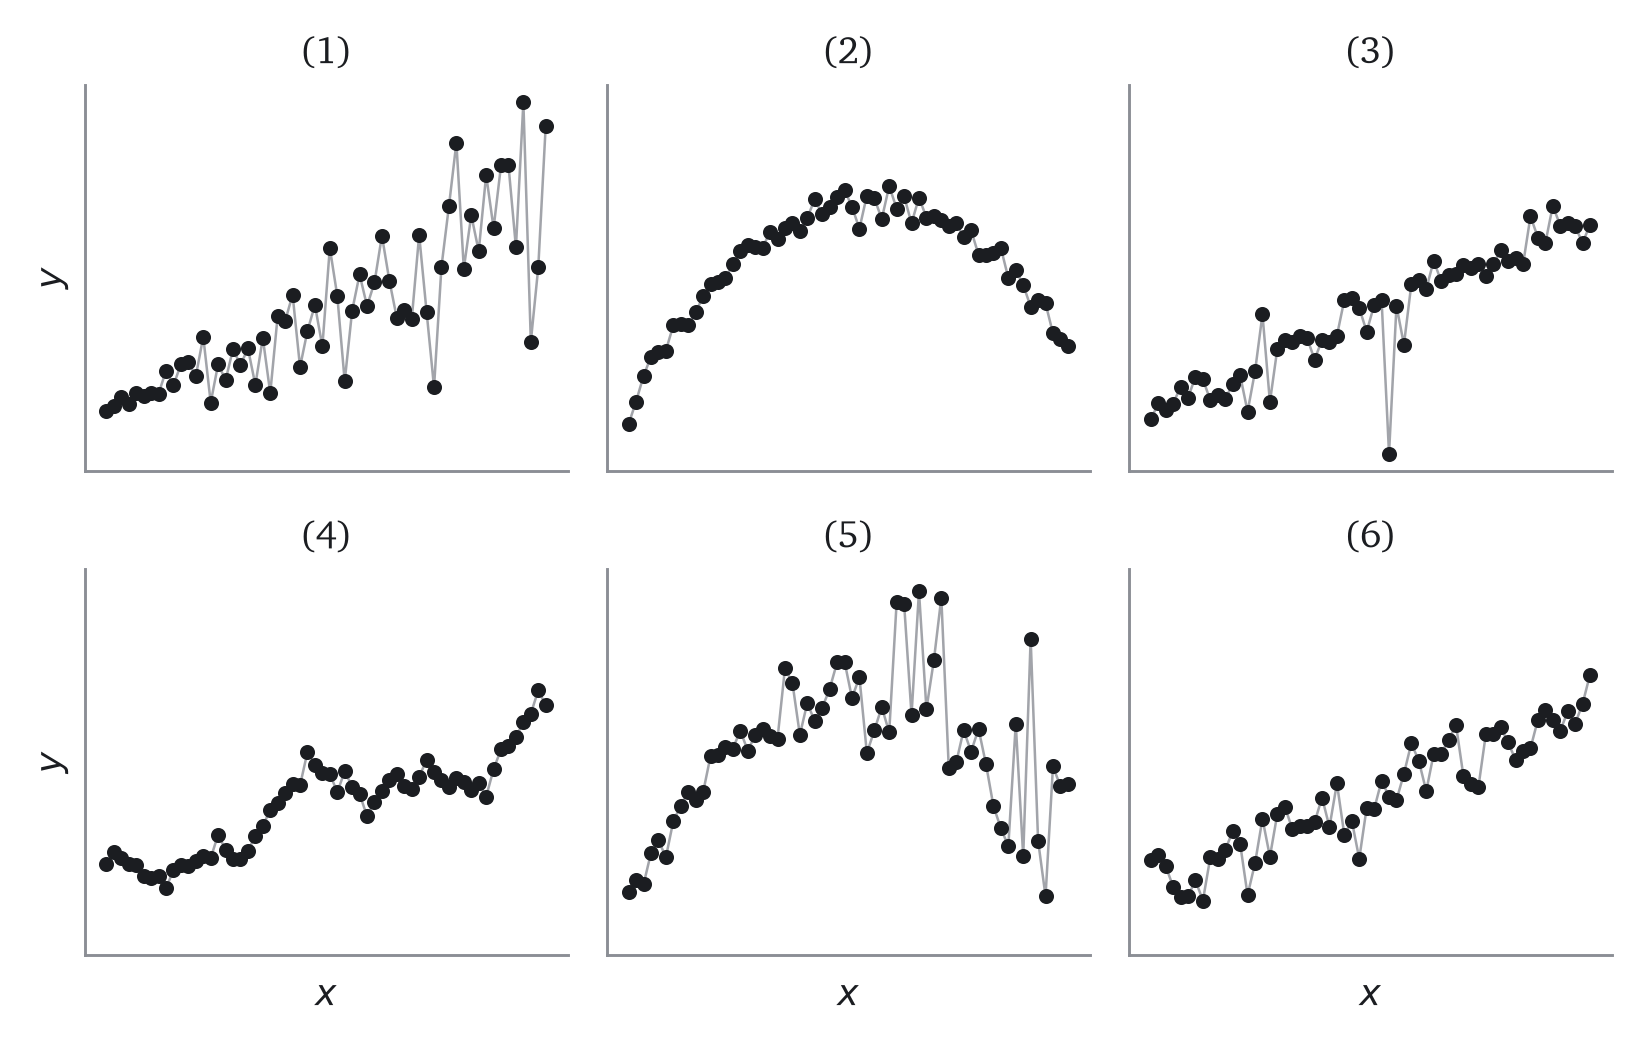
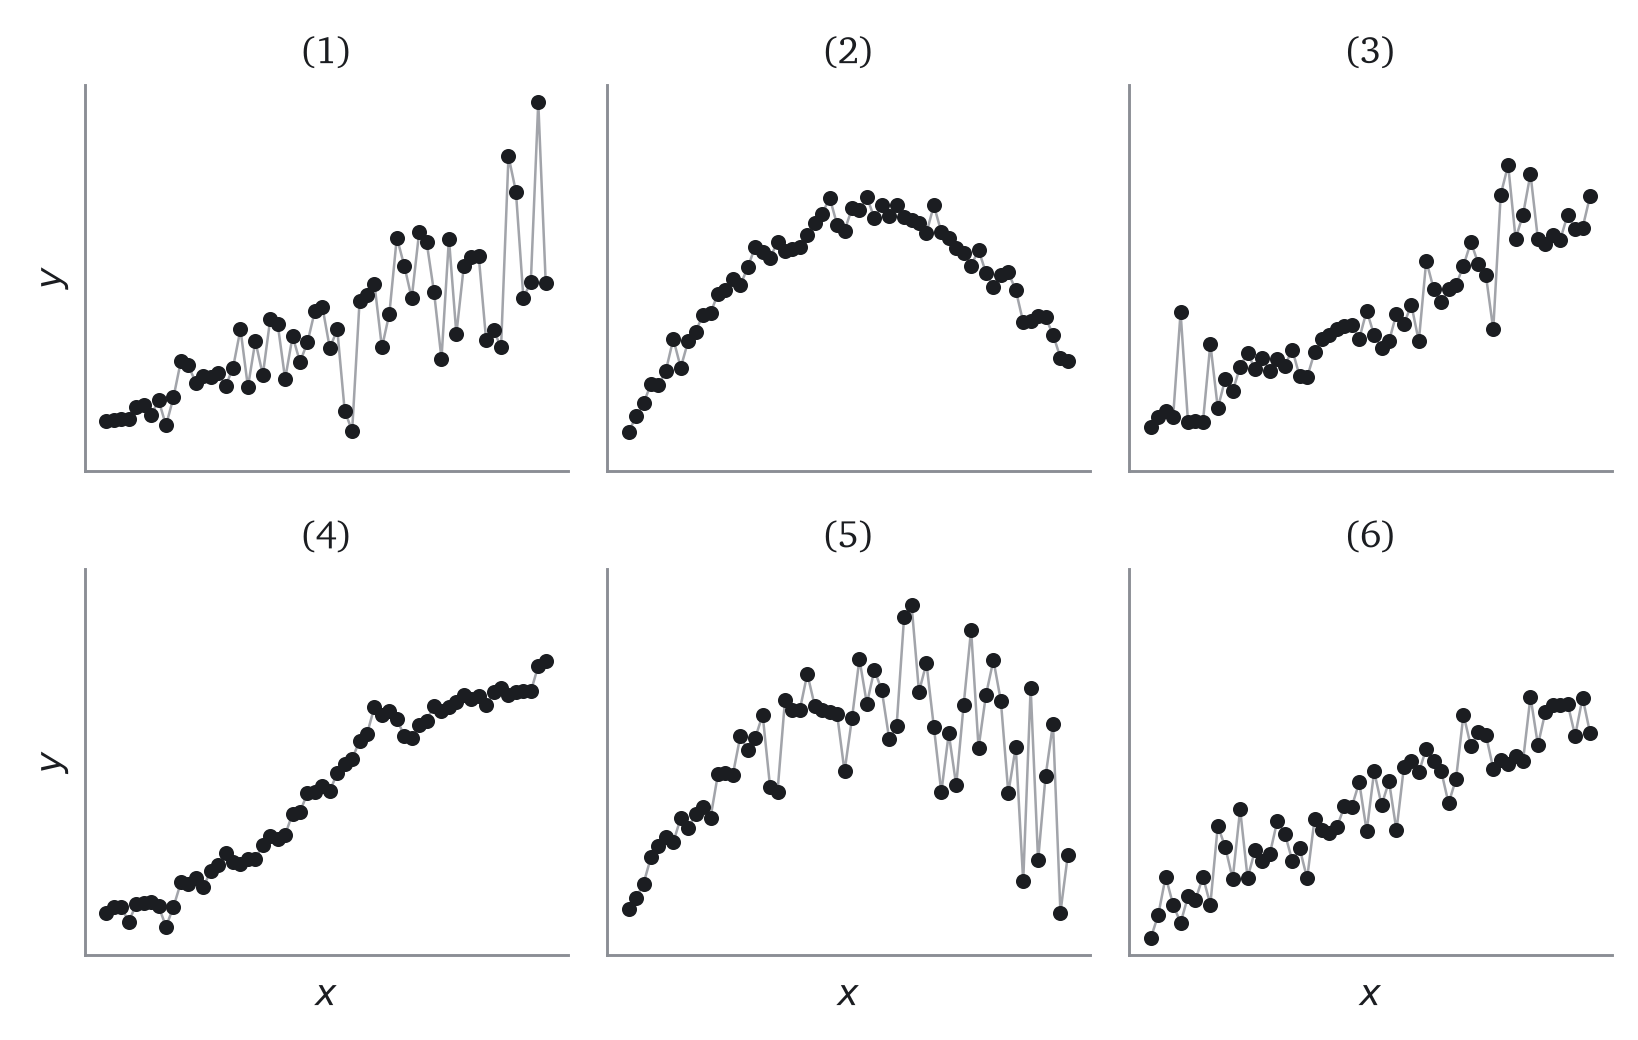
Cierra la hoja 1: código en las soluciones y figura más robusta
Las tres soluciones de los ejercicios que piden código daban los números pero
no el código. Ahora lo llevan, y es código ejecutado: el de @exr-h1-logaritmos
reproduce los datos del capítulo y saca los tres productos y las tres sumas de
logaritmos; el de @exr-h1-heterocedastico reescala una sola extracción estándar
de dos maneras, para que los dos paneles se puedan comparar punto a punto; y el
de @exr-h1-simulacion monta el experimento entero, con la búsqueda por rejilla
del capítulo y el interpolador cúbico, y devuelve las medianas de las dos
distribuciones de error de test. El solucionario pasa de 3 bloques de código a
14, y de 20 páginas a 25.

El panel (3) de la figura, el de colas pesadas, dependía de un solo punto: el
segundo valor más extremo era menor que el mayor del panel limpio, así que el
rasgo que se pedía identificar no estaba en el dibujo. Con p = 0.15 y escala 5
en lugar de 0.12 y 9 salen catorce puntos de la escala grande y los cuatro
mayores se descuelgan a 10.8, 10.4, 8.3 y 7.5, frente al 6.5 del panel limpio.
De paso, el panel (4) pasa a tener la misma desviación típica que el (6), 2.4,
de modo que lo único que los distingue es la dependencia; y con la semilla nueva
el panel limpio deja de arrastrar la autocorrelación espuria de 0.27 que tenía.

@exr-h1-densidad ya no solapa con @exr-h1-densidad-uno: su apartado a evalúa la
densidad en z = 2 en lugar de en el centro, que era la misma cuenta que hacía el
otro ejercicio.
[…]

diff --git a/docs/capitulos/01-senal-ruido.html b/docs/capitulos/01-senal-ruido.html
@@ -326,7 +326,7 @@ window.Quarto = {
 <p>El principal problema del aprendizaje supervisado es que la relación entre <span class="math inline">\(\mathbf{x}\)</span> e <span class="math inline">\(y\)</span> de los datos observados no suele ser exacta. Esta relación, puede entenderse como la composición de una relación estable “subyacente” y una variación aleatoria que oculta parcialmente esa relación. Esta variación se conoce como <strong>ruido</strong> y puede tener distintas procedencias: errores de medición, factores no observados, cambios en el entorno, etc. La relación estable se denomina <strong>señal</strong>. El objetivo del aprendizaje supervisado es <strong>aprender la señal sin memorizar el ruido</strong>.</p>
 <p>Para entenderlo mejor, construyamos un conjunto de datos sencillo que contenga ambos componentes. En este conjunto, el vector de características tendrá una sola dimensión.</p>
 <div class="codigo-clave">
-<div id="4a83495a" class="cell" data-execution_count="2">
+<div id="38813566" class="cell" data-execution_count="2">
 <div class="code-copy-outer-scaffold"><div class="sourceCode cell-code" id="cb1"><pre class="sourceCode python code-with-copy"><code class="sourceCode python"><span id="cb1-1"><a href="#cb1-1" aria-hidden="true" tabindex="-1"></a><span class="im">import</span> torch</span>
 <span id="cb1-2"><a href="#cb1-2" aria-hidden="true" tabindex="-1"></a></span>
 <span id="cb1-3"><a href="#cb1-3" aria-hidden="true" tabindex="-1"></a>torch.manual_seed(<span class="dv">87</span>)</span>
@@ -360,7 +360,7 @@ window.Quarto = {
 <div id="fig-senal-ruido" class="quarto-float quarto-figure quarto-figure-center anchored page-columns page-full">
 <figure class="quarto-float quarto-float-fig figure page-columns page-full">
 <div aria-describedby="fig-senal-ruido-caption-0ceaefa1-69ba-4598-a22c-09a6ac19f8ca">
-<div id="3d1d991a" class="cell" data-execution_count="3">
+<div id="3c2f67ba" class="cell" data-execution_count="3">
 <div class="cell-output cell-output-display">
 <div>
 <figure class="figure">
@@ -397,8 +397,8 @@ y_i=f(x_i)+\varepsilon_i.
 </div>
 <!-- demostracion: problemas/hoja-01.qmd#exr-h1-lagrange -->
 <p>El resultado se demuestra construyendo el polinomio explícitamente, se deja planteado como ejercicio.</p>
-<p>El teorema anterior vale para cualesquiera <span class="math inline">\(y_i\)</span>, incluidos unos generados por ruido puro. Por tanto, siempre es posible encontrar una función <span class="math inline">\(g\)</span> para la cual <span class="math inline">\(g(x_i)=y_i\)</span> para todo <span class="math inline">\(i\)</span>. Decimos que para <span class="math inline">\(g\)</span> el <strong>error de entrenamiento es nulo</strong>.</p>
-<div id="6de30290" class="cell" data-execution_count="4">
+<p>El teorema anterior vale para cualesquiera <span class="math inline">\(y_i\)</span>, incluidos unos generados por ruido puro. Por tanto, siempre es posible encontrar una función <span class="math inline">\(P\)</span> para la cual <span class="math inline">\(P(x_i)=y_i\)</span> para todo <span class="math inline">\(i\)</span>. Decimos que para <span class="math inline">\(P\)</span> el <strong>error de entrenamiento es nulo</strong>.</p>
+<div id="81dcd601" class="cell" data-execution_count="4">
 <details class="code-fold">
 <summary>Código</summary>
 <div class="code-copy-outer-scaffold"><div class="sourceCode cell-code" id="cb3"><pre class="sourceCode python code-with-copy"><code class="sourceCode python"><span id="cb3-1"><a href="#cb3-1" aria-hidden="true" tabindex="-1"></a><span class="im">from</span> scipy <span class="im">import</span> interpolate</span>
@@ -421,7 +421,7 @@ y_i=f(x_i)+\varepsilon_i.
 <div id="fig-interpolacion" class="quarto-float quarto-figure quarto-figure-center anchored page-columns page-full">
 <figure class="quarto-float quarto-float-fig figure page-columns page-full">
 <div aria-describedby="fig-interpolacion-caption-0ceaefa1-69ba-4598-a22c-09a6ac19f8ca">
-<div id="fefca84c" class="cell" data-execution_count="5">
+<div id="f1305eff" class="cell" data-execution_count="5">
 <div class="cell-output cell-output-display">
 <div>
 <figure class="figure">
@@ -438,7 +438,7 @@ Figura&nbsp;1.2: Una función que interpola exactamente la muestra y, por tanto,
 </div>
 <p>El problema aquí es que, en general, si bien hemos ajustado perfectamente nuestros datos de entrenamiento, el modelo no ha aprendido la señal subyacente <span class="math inline">\(f\)</span>. Es decir, usualmente, <span class="math inline">\(g\neq f\)</span>. En nuestro caso, si generamos nuevas observaciones con la misma señal pero con un ruido distinto, veremos que la función interpoladora no predice bien los nuevos datos.</p>
 <div class="codigo-clave">
-<div id="181d9b2e" class="cell" data-execution_count="6">
+<div id="cf0fa38f" class="cell" data-execution_count="6">
 <div class="code-copy-outer-scaffold"><div class="sourceCode cell-code" id="cb5"><pre class="sourceCode python code-with-copy"><code class="sourceCode python"><span id="cb5-1"><a href="#cb5-1" aria-hidden="true" tabindex="-1"></a>x_denso <span class="op">=</span> torch.linspace(<span class="dv">0</span>, <span class="dv">10</span>, <span class="dv">100</span>)</span>
 <span id="cb5-2"><a href="#cb5-2" aria-hidden="true" tabindex="-1"></a>y_nueva <span class="op">=</span> <span class="dv">2</span> <span class="op">*</span> x_denso <span class="op">+</span> <span class="dv">1</span> <span class="op">+</span> <span class="dv">3</span> <span class="op">*</span> torch.randn(<span class="bu">len</span>(x_denso))</span></code></pre></div><button title="Copiar al portapapeles" class="code-copy-button"><i class="bi"></i></button></div>
 </div>
@@ -457,7 +457,7 @@ Figura&nbsp;1.2: Una función que interpola exactamente la muestra y, por tanto,
 <div id="fig-trampa" class="quarto-float quarto-figure quarto-figure-center anchored page-columns page-full">
 <figure class="quarto-float quarto-float-fig figure page-columns page-full">
 <div aria-describedby="fig-trampa-caption-0ceaefa1-69ba-4598-a22c-09a6ac19f8ca">
-<div id="f3242fb5" class="cell" data-execution_count="7">
+<div id="9339db94" class="cell" data-execution_count="7">
 <div class="cell-output cell-output-display">
 <div>
 <figure class="figure">
@@ -519,12 +519,13 @@ p(z;\mu,\sigma)
 <p><span class="theorem-title"><strong>Ejercicio 1.1 (Una densidad puede pasar de uno)</strong></span> &nbsp;</p>
 <ol type="a">
 <li>Evalúa <a href="#eq-densidad-normal" class="quarto-xref">Ecuación&nbsp;<span>1.2</span></a> en <span class="math inline">\(z=\mu\)</span> y calcula su valor para <span class="math inline">\(\sigma=2\)</span>, <span class="math inline">\(\sigma=1\)</span> y <span class="math inline">\(\sigma=0.2\)</span>.</li>
-<li>Encuentra a partir de qué valor de <span class="math inline">\(\sigma\)</span> la densidad evaluada en <span class="math inline">\(z=\mu\)</span> es mayor a 1. Explica en una frase por qué eso no contradice que la probabilidad esté entre cero y uno.</li>
+<li>Calcula a partir de qué valor de <span class="math inline">\(\sigma\)</span> la densidad evaluada en <span class="math inline">\(z=\mu\)</span> pasa de uno.</li>
+<li>Con <span class="math inline">\(\sigma=0.2\)</span> esa densidad vale <span class="math inline">\(1.995\)</span>, algo menos de 2. Di cuál de las dos cantidades <span class="math inline">\(p(z;\mu,\sigma)\)</span> y <span class="math inline">\(\mathbb{P}\!\left( a\leq\varepsilon\leq b \right)\)</span> tiene que estar entre cero y uno según <a href="#def-normal" class="quarto-xref">Definición&nbsp;<span>1.3</span></a>, y calcula el área del rectángulo de base <span class="math inline">\([\mu-0.2,\mu+0.2]\)</span> y altura 2 para acotar la probabilidad de ese intervalo y comprobar que no llega a uno.</li>
 </ol>
 </div>
 <p>La fórmula anterior se puede traducir directamente a código vectorizado.</p>
 <div class="codigo-clave">
-<div id="9c628f08" class="cell" data-execution_count="9">
+<div id="413f2178" class="cell" data-execution_count="9">
 <div class="code-copy-outer-scaffold"><div class="sourceCode cell-code" id="cb7"><pre class="sourceCode python code-with-copy"><code class="sourceCode python"><span id="cb7-1"><a href="#cb7-1" aria-hidden="true" tabindex="-1"></a><span class="kw">def</span> densidad_normal(z, media, desviacion):</span>
 <span id="cb7-2"><a href="#cb7-2" aria-hidden="true" tabindex="-1"></a>    constante <span class="op">=</span> desviacion <span class="op">*</span> (<span class="dv">2</span> <span class="op">*</span> torch.pi) <span class="op">**</span> <span class="fl">0.5</span></span>
 <span id="cb7-3"><a href="#cb7-3" aria-hidden="true" tabindex="-1"></a>    <span class="cf">return</span> torch.exp(<span class="op">-</span><span class="fl">0.5</span> <span class="op">*</span> ((z <span class="op">-</span> media) <span class="op">/</span> desviacion) <span class="op">**</span> <span class="dv">2</span>) <span class="op">/</span> constante</span>
@@ -557,7 +558,7 @@ p(z;\mu,\sigma)
 <div id="fig-densidades-normales" class="quarto-float quarto-figure quarto-figure-center anchored page-columns page-full">
 <figure class="quarto-float quarto-float-fig figure page-columns page-full">
 <div aria-describedby="fig-densidades-normales-caption-0ceaefa1-69ba-4598-a22c-09a6ac19f8ca">
-<div id="7d0acad9" class="cell" data-execution_count="10">
+<div id="56dc8381" class="cell" data-execution_count="10">
 <div class="cell-output cell-output-display">
 <div>
 <figure class="figure">
@@ -574,7 +575,7 @@ Figura&nbsp;1.5: Densidades normales para distintas medias y desviaciones típic
 </div>
 <p>Podemos generar ruido normal con <code>torch.normal</code>. Al repetir muchas veces la extracción, el histograma de los valores se aproxima a la densidad de la distribución.</p>
 <div class="codigo-clave">
-<div id="77348ddd" class="cell" data-execution_count="11">
+<div id="0c036e89" class="cell" data-execution_count="11">
 <div class="code-copy-outer-scaffold"><div class="sourceCode cell-code" id="cb10"><pre class="sourceCode python code-with-copy"><code class="sourceCode python"><span id="cb10-1"><a href="#cb10-1" aria-hidden="true" tabindex="-1"></a>media <span class="op">=</span> <span class="fl">0.0</span></span>
 <span id="cb10-2"><a href="#cb10-2" aria-hidden="true" tabindex="-1"></a>desviacion <span class="op">=</span> <span class="fl">1.0</span></span>
 <span id="cb10-3"><a href="#cb10-3" aria-hidden="true" tabindex="-1"></a>muestra_ruido <span class="op">=</span> torch.normal(media, desviacion, size<span class="op">=</span>(<span class="dv">10</span>,))</span>
@@ -603,7 +604,7 @@ Figura&nbsp;1.5: Densidades normales para distintas medias y desviaciones típic
 <div id="fig-histograma-normal" class="quarto-float quarto-figure quarto-figure-center anchored page-columns page-full">
 <figure class="quarto-float quarto-float-fig figure page-columns page-full">
 <div aria-describedby="fig-histograma-normal-caption-0ceaefa1-69ba-4598-a22c-09a6ac19f8ca">
-<div id="f566766d" class="cell" data-execution_count="12">
+<div id="74bc5790" class="cell" data-execution_count="12">
 <div class="cell-output cell-output-display">
 <div>
 <figure class="figure">
@@ -678,7 +679,7 @@ X=\sigma Z+\mu.
 <p>Hemos utilizado que <span class="math inline">\(\mathbb{E}\!\left[ Z \right]=0\)</span>, <span class="math inline">\(\mathrm{Var}\!\left( Z \right)=1\)</span>, que sumar una constante no altera la varianza y que <span class="math inline">\(\mathrm{Var}\!\left( aZ \right)=a^2\mathrm{Var}\!\left( Z \right)\)</span>.</p>
 <p>La misma construcción aparece en código: se genera primero ruido estándar y después se escala y se traslada.</p>
 <div class="codigo-clave">
-<div id="5a83ba1e" class="cell" data-execution_count="13">
+<div id="f35cff45" class="cell" data-execution_count="13">
 <div class="code-copy-outer-scaffold"><div class="sourceCode cell-code" id="cb13"><pre class="sourceCode python code-with-copy"><code class="sourceCode python"><span id="cb13-1"><a href="#cb13-1" aria-hidden="true" tabindex="-1"></a>media <span class="op">=</span> <span class="fl">3.0</span></span>
 <span id="cb13-2"><a href="#cb13-2" aria-hidden="true" tabindex="-1"></a>desviacion <span class="op">=</span> <span class="fl">2.0</span></span>
 <span id="cb13-3"><a href="#cb13-3" aria-hidden="true" tabindex="-1"></a>n_muestras <span class="op">=</span> <span class="dv">5</span></span>
@@ -761,7 +762,7 @@ f(\mathbf{x}_i;\boldsymbol{w})
 <div id="fig-modelo-generador" class="quarto-float quarto-figure quarto-figure-center anchored page-columns page-full">
 <figure class="quarto-float quarto-float-fig figure page-columns page-full">
 <div aria-describedby="fig-modelo-generador-caption-0ceaefa1-69ba-4598-a22c-09a6ac19f8ca">
-<div id="729775c0" class="cell" data-execution_count="14">
+<div id="4ff023d7" class="cell" data-execution_count="14">
 <div class="cell-output cell-output-display">
 <div>
 <figure class="figure">
@@ -848,7 +849,7 @@ p\bigl(y_i;f_{\boldsymbol{w}}(x_i),\sigma\bigr).
 <ol type="a">
 <li>Calcula el producto de las cinco primeras, de las diez primeras y de las veinte. Anota los tres órdenes de magnitud.</li>
 <li>Calcula la suma de sus logaritmos en los mismos tres casos.</li>
-<li>Con densidades del orden de las que has obtenido, estima a partir de cuántas observaciones el producto se redondearía a cero en coma flotante de doble precisión, que llega hasta <span class="math inline">\(10^{-308}\)</span>. Explica qué le pasaría entonces a una búsqueda que compare verosimilitudes.</li>
+<li>Toma <span class="math inline">\(10^{-1}\)</span> como valor típico de una de esas densidades. Calcula a partir de cuántas observaciones el producto baja de <span class="math inline">\(10^{-308}\)</span>, el orden en que la coma flotante de doble precisión empieza a perder los números pequeños, y di qué devolvería la comparación entre dos verosimilitudes cuando las dos se han redondeado a cero.</li>
 </ol>
 </div>
 <p>Para evitar este problema se utiliza la <strong>log-verosimilitud</strong>,</p>
@@ -894,7 +895,7 @@ L(\vartheta)\leq L(\vartheta^\star)
 <p>De momento damos el nivel de ruido por conocido y lo fijamos en <code>sigma_supuesto = 3.0</code>, el valor con el que se generaron los datos, y buscaremos únicamente los parámetros <span class="math inline">\(\boldsymbol{w}=(w_0,w_1)^{\mathsf{T}}\)</span> de la señal. Esta simplificación permite aislar el problema de aprender <span class="math inline">\(f_{\boldsymbol{w}}\)</span>; el capítulo siguiente mostrará cómo estimar también <span class="math inline">\(\sigma\)</span>.</p>
 <p>Para esta búsqueda evaluamos directamente <a href="#eq-log-verosimilitud" class="quarto-xref">Ecuación&nbsp;<span>1.5</span></a> mediante <code>densidad_normal</code>. Calculamos su valor sobre una rejilla de posibles interceptos y pendientes y conservamos la mejor combinación.</p>
 <div class="codigo-clave">
-<div id="c6fbb6d6" class="cell" data-execution_count="15">
+<div id="7d849dd9" class="cell" data-execution_count="15">
 <div class="code-copy-outer-scaffold"><div class="sourceCode cell-code" id="annotated-cell-15"><pre class="sourceCode python code-annotation-code code-with-copy code-annotated"><code class="sourceCode python"><a class="code-annotation-anchor" data-target-cell="annotated-cell-15" data-target-annotation="1" onclick="event.preventDefault();">1</a><span id="annotated-cell-15-1" class="code-annotation-target"><a href="#annotated-cell-15-1" aria-hidden="true" tabindex="-1"></a>sigma_supuesto <span class="op">=</span> <span class="fl">3.0</span></span>
 <span id="annotated-cell-15-2"><a href="#annotated-cell-15-2" aria-hidden="true" tabindex="-1"></a>mejor_loglik <span class="op">=</span> <span class="op">-</span><span class="bu">float</span>(<span class="st">"inf"</span>)</span>
 <span id="annotated-cell-15-3"><a href="#annotated-cell-15-3" aria-hidden="true" tabindex="-1"></a>mejores_coeficientes <span class="op">=</span> <span class="va">None</span></span>
@@ -961,7 +962,7 @@ L(\vartheta)\leq L(\vartheta^\star)
 <div id="fig-verosimilitud-rejilla" class="quarto-float quarto-figure quarto-figure-center anchored page-columns page-full">
 <figure class="quarto-float quarto-float-fig figure page-columns page-full">
 <div aria-describedby="fig-verosimilitud-rejilla-caption-0ceaefa1-69ba-4598-a22c-09a6ac19f8ca">
-<div id="a7a14175" class="cell" data-execution_count="16">
+<div id="96c155d6" class="cell" data-execution_count="16">
 <div class="cell-output cell-output-display">
 <div>
 <figure class="figure">

diff --git a/docs/problemas/hoja-01.html b/docs/problemas/hoja-01.html
@@ -322,7 +322,7 @@ window.Quarto = {
 <div id="fig-h1-violaciones" class="quarto-float quarto-figure quarto-figure-center anchored page-columns page-full">
 <figure class="quarto-float quarto-float-fig figure page-columns page-full">
 <div aria-describedby="fig-h1-violaciones-caption-0ceaefa1-69ba-4598-a22c-09a6ac19f8ca">
-<div id="c8960c73" class="cell" data-execution_count="1">
+<div id="aac22e7d" class="cell" data-execution_count="1">
 <div class="cell-output cell-output-display">
 <div>
 <figure class="figure">
@@ -454,7 +454,7 @@ Figura&nbsp;1: Seis muestras simuladas con <span class="math inline">\(n=60\)</s
 <div id="exr-h1-densidad" class="theorem exercise">
 <p><span class="theorem-title"><strong>Ejercicio 8</strong></span> Sea <span class="math inline">\(\varepsilon\sim\mathcal{N}(0,\sigma^2)\)</span> con <span class="math inline">\(\sigma=2\)</span>.</p>
 <ol type="a">
-<li>Escribe la densidad <span class="math inline">\(p(z;0,2)\)</span> y evalúala en <span class="math inline">\(z=0\)</span> dejando el resultado en función de <span class="math inline">\(\pi\)</span>.</li>
+<li>Escribe la densidad <span class="math inline">\(p(z;0,2)\)</span> y <strong>evalúala</strong> en <span class="math inline">\(z=2\)</span>, dejando el resultado en función de <span class="math inline">\(\pi\)</span> y de <span class="math inline">\(e\)</span>.</li>
 <li>Usando <a href="../capitulos/01-senal-ruido.html#thm-escala-normal" class="quarto-xref">Teorema&nbsp;<span>1.3</span></a> y <a href="../capitulos/01-senal-ruido.html#thm-traslacion-normal" class="quarto-xref">Teorema&nbsp;<span>1.2</span></a>, di qué distribución tiene <span class="math inline">\(3\varepsilon-1\)</span>.</li>
 <li>Sea <span class="math inline">\(y_i=f(x_i)+\varepsilon_i\)</span> con <span class="math inline">\(f(x_i)=5\)</span>. <strong>Di</strong> qué distribución tiene <span class="math inline">\(y_i\)</span>, citando <a href="../capitulos/01-senal-ruido.html#eq-ruido-normal" class="quarto-xref">Ecuación&nbsp;<span>1.3</span></a>, y <strong>calcula</strong> en qué valor de <span class="math inline">\(y_i\)</span> alcanza su máximo la densidad.</li>
 </ol>
